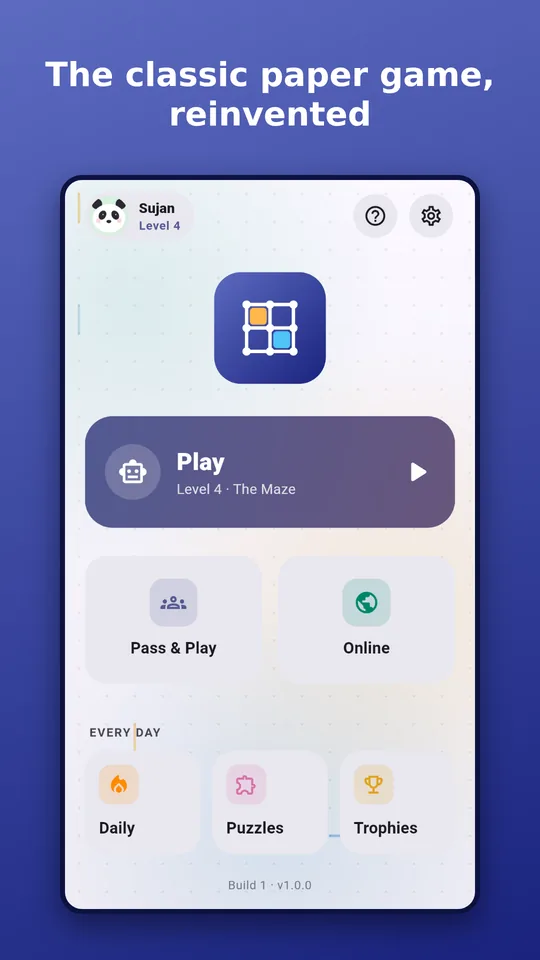
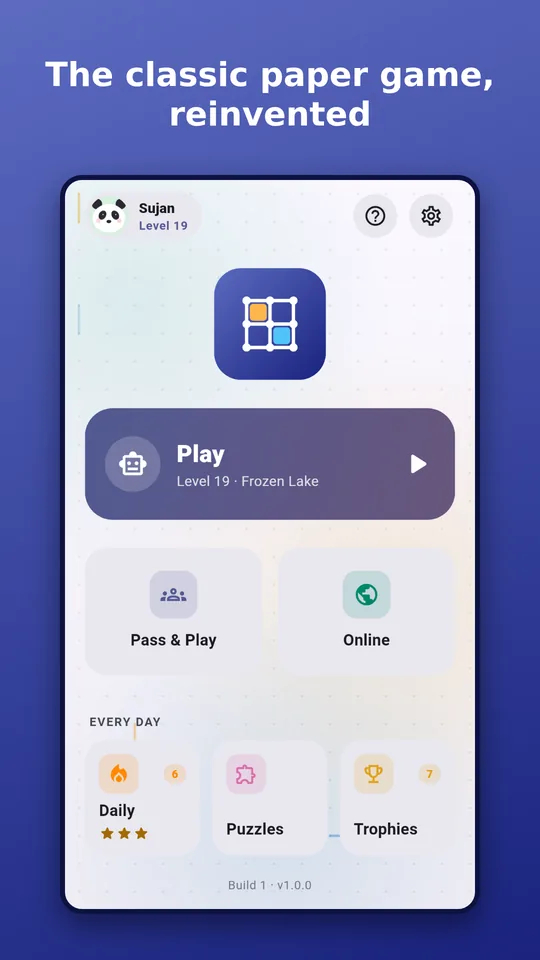
Home page: eight worlds and bosses, new screenshots (#2)
Worlds, twists, bosses and laps on the page, in the structured data and llms.txt; "How many levels are there?" question; the 8 new store screenshots.

Claude-Session: https://claude.ai/code/session_018kM3dddw6BUwEBPryTTbFM

diff --git a/index.html b/index.html
@@ -6,7 +6,7 @@
 <meta http-equiv="Content-Security-Policy" content="default-src 'none'; style-src 'unsafe-inline'; img-src 'self'">
 <meta name="referrer" content="no-referrer">
 <title>Dots &amp; Boxes: Brain Duel – free dots and boxes game for Android</title>
-<meta name="description" content="Free dots and boxes game for Android with no ads: five computer levels, a daily puzzle, Pass &amp; Play for 2–6 players and online ranked games with friends.">
+<meta name="description" content="Free dots and boxes game for Android with no ads: eight worlds with bosses, five computer levels, a daily puzzle, Pass &amp; Play for 2–6 players and online games with friends.">
 <link rel="canonical" href="https://sujan227.github.io/dots-and-boxes-legal/">
 <link rel="icon" href="img/icon-192.png">
 <meta property="og:type" content="website">
@@ -24,7 +24,7 @@
       "@id": "https://sujan227.github.io/dots-and-boxes-legal/#app",
       "name": "Dots & Boxes: Brain Duel",
       "alternateName": ["Dots and Boxes", "Dots & Boxes"],
-      "description": "A free Android version of the classic dots and boxes pen-and-paper game, with five computer levels, a daily puzzle, Pass & Play for 2 to 6 players and online ranked play. No ads, no in-app purchases, no tracking.",
+      "description": "A free Android version of the classic dots and boxes pen-and-paper game: eight worlds with their own twists, board shapes and bosses, five computer levels, a daily puzzle, Pass & Play for 2 to 6 players and online ranked play. No ads, no in-app purchases, no tracking.",
       "operatingSystem": "Android",
       "applicationCategory": "GameApplication",
       "applicationSubCategory": "Board game",
@@ -40,9 +40,10 @@
       "url": "https://sujan227.github.io/dots-and-boxes-legal/",
       "image": "https://sujan227.github.io/dots-and-boxes-legal/img/icon-192.png",
       "screenshot": [
-        "https://sujan227.github.io/dots-and-boxes-legal/img/01-home.webp",
-        "https://sujan227.github.io/dots-and-boxes-legal/img/03-game-dark.webp",
-        "https://sujan227.github.io/dots-and-boxes-legal/img/04-online.webp"
+        "https://sujan227.github.io/dots-and-boxes-legal/img/02-worlds.webp",
+        "https://sujan227.github.io/dots-and-boxes-legal/img/03-game.webp",
+        "https://sujan227.github.io/dots-and-boxes-legal/img/04-boss.webp",
+        "https://sujan227.github.io/dots-and-boxes-legal/img/06-online.webp"
       ],
       "author": {"@id": "https://sujan227.github.io/dots-and-boxes-legal/#author"},
       "privacyPolicy": "https://sujan227.github.io/dots-and-boxes-legal/privacy-policy.html"
@@ -68,7 +69,8 @@
         {"@type": "Question", "name": "Is Dots & Boxes: Brain Duel free?", "acceptedAnswer": {"@type": "Answer", "text": "Yes. It is free on Google Play, with no ads and no in-app purchases."}},
         {"@type": "Question", "name": "Can I play dots and boxes online with friends?", "acceptedAnswer": {"@type": "Answer", "text": "Yes. Create a private room and share its 6-letter code, invite friends from your friends list, join a public room, or play a random opponent. Rooms take 2 to 6 players, and ranked games have ratings and a leaderboard."}},
         {"@type": "Question", "name": "Can I play dots and boxes offline?", "acceptedAnswer": {"@type": "Answer", "text": "Yes. Games against the computer, the daily puzzle, Chain School and Pass & Play for 2 to 6 players on one phone all work without internet."}},
-        {"@type": "Question", "name": "Is there a dots and boxes game against the computer?", "acceptedAnswer": {"@type": "Answer", "text": "Yes. There are five computer levels, from Beginner to Master, which calculates the endgame exactly, plus endless levels that add obstacles, walls, gem and bomb boxes, locked lines and shaped boards."}},
+        {"@type": "Question", "name": "Is there a dots and boxes game against the computer?", "acceptedAnswer": {"@type": "Answer", "text": "Yes. There are five computer levels, from Beginner to Master, which calculates the endgame exactly, and eight worlds of levels, each with its own twist, new board shapes and a boss."}},
+        {"@type": "Question", "name": "How many levels are there?", "acceptedAnswer": {"@type": "Answer", "text": "Levels never run out. After the 8 training levels come eight worlds of 8 levels each, from Clover Meadow to Starfall Orbit, each ending with a boss. Then the worlds return as harder laps."}},
         {"@type": "Question", "name": "Is it on iPhone?", "acceptedAnswer": {"@type": "Answer", "text": "Not yet. Dots & Boxes: Brain Duel is available for Android on Google Play."}},
         {"@type": "Question", "name": "Does the app collect personal data?", "acceptedAnswer": {"@type": "Answer", "text": "No email, phone number or location is needed. Offline play sends nothing off the phone, and online play uses an anonymous account you can delete at any time from Settings."}},
         {"@type": "Question", "name": "Who invented dots and boxes?", "acceptedAnswer": {"@type": "Answer", "text": "The French mathematician Édouard Lucas first published the game in 1889, under the name La Pipopipette."}}
@@ -129,11 +131,11 @@ footer .wrap{padding-top:20px;padding-bottom:28px;display:flex;flex-wrap:wrap;ga
 <div class="hero">
 <div>
 <h1>Dots and boxes for Android. Free, with no ads.</h1>
-<p class="lead">The classic pen-and-paper game on your phone. Play five computer levels, solve a new puzzle every day, pass the phone around with up to 6 players, or play friends online in private, public and ranked rooms. No ads, no in-app purchases, no tracking.</p>
+<p class="lead">The classic pen-and-paper game on your phone. Play the computer through eight worlds with their own twists and bosses, solve a new puzzle every day, pass the phone around with up to 6 players, or play friends online. No ads, no in-app purchases, no tracking.</p>
 <a class="play" href="https://play.google.com/store/apps/details?id=com.sujanshrestha.dotsandboxes" rel="noopener"><svg viewBox="0 0 24 24" aria-hidden="true"><path fill="#34a853" d="M3.6 2.2 13.4 12l-9.8 9.8c-.4-.2-.6-.6-.6-1.1V3.3c0-.5.2-.9.6-1.1Z"/><path fill="#fbbc04" d="m17 8.4-3.6 3.6L17 15.6l4.1-2.3c.9-.5.9-1.9 0-2.4Z"/><path fill="#ea4335" d="M13.4 12 3.6 21.8c.3.2.8.2 1.2 0L17 15.6Z"/><path fill="#4285f4" d="M13.4 12 17 8.4 4.8 2.3c-.4-.2-.9-.2-1.2-.1Z"/></svg>Get it on Google Play</a>
 <p class="note">Android · Offline play needs no account</p>
 </div>
-<div class="phones"><img src="img/03-game-dark.webp" alt="A dots and boxes game against the computer, with obstacles and walls on the board" width="540" height="960"><img src="img/04-online.webp" alt="An online dots and boxes game against another player" width="540" height="960"></div>
+<div class="phones"><img src="img/02-worlds.webp" alt="The Frostpeak Pass world map with levels, an avatar and a Play button" width="540" height="960"><img src="img/03-game.webp" alt="A dots and boxes game with gems, bombs, walls and a locked line" width="540" height="960"></div>
 </div>
 </div>
 </header>
@@ -149,6 +151,7 @@ footer .wrap{padding-top:20px;padding-bottom:28px;display:flex;flex-wrap:wrap;ga
 <li><span>Online</span><strong>Random, private, public, ranked</strong></li>
 <li><span>Platform</span><strong>Android (Google Play)</strong></li>
 <li><span>Computer levels</span><strong>Beginner to Master</strong></li>
+<li><span>Worlds</span><strong>8, each with a boss</strong></li>
 <li><span>Made by</span><strong>Sujan Shrestha, Nepal</strong></li>
 </ul>
 </section>
@@ -178,9 +181,10 @@ footer .wrap{padding-top:20px;padding-bottom:28px;display:flex;flex-wrap:wrap;ga
 <section aria-labelledby="features">
 <h2 id="features">What's in the game</h2>
 <div class="feat">
-<div class="card"><span class="tag">Solo</span><h3>Play the computer</h3><p>Five levels, from a friendly Beginner to a Master that calculates the endgame exactly. Endless levels add obstacles, walls, gem and bomb boxes, locked lines and shaped boards.</p></div>
+<div class="card"><span class="tag">Adventure</span><h3>Eight worlds and their bosses</h3><p>Clover Meadow, Frostpeak Pass, Sunscorch Dunes, Coral Deep, Ember Peaks, Cloud Isles, Lantern City and Starfall Orbit. Each has its own twist, like hedge mazes, frozen lines or gold boxes worth 2, new board shapes and a boss to beat. Then the worlds return as harder laps.</p></div>
+<div class="card"><span class="tag">Solo</span><h3>Play the computer</h3><p>Five levels, from a friendly Beginner to a Master that calculates the endgame exactly. Earn up to 3 stars on every level and chase your fastest wins.</p></div>
 <div class="card"><span class="tag">Every day</span><h3>Daily puzzle and stars</h3><p>A fresh endgame each day, the same for everyone. Earn up to 3 stars, keep your streak and climb Today's stars.</p></div>
-<div class="card"><span class="tag">Together</span><h3>Pass &amp; Play</h3><p>2 to 6 players on one phone, no internet needed. Pick the board size, the shape and twists like gems and locked lines.</p></div>
+<div class="card"><span class="tag">Together</span><h3>Pass &amp; Play</h3><p>2 to 6 players on one phone, no internet needed. Pick the board size, a shape from square to heart, diamond or window, and twists like gems and locked lines.</p></div>
 <div class="card"><span class="tag">Online</span><h3>Friends, rooms and ranked</h3><p>Private rooms with a 6-letter code, public rooms, friends and invites, ranked ratings and a leaderboard. The server checks every move, so nobody can cheat.</p></div>
 <div class="card"><span class="tag">Learn</span><h3>Chain School</h3><p>Twelve puzzles that teach chains, sacrifices and the double-cross.</p></div>
 <div class="card"><span class="tag">Your style</span><h3>Paper, Chalkboard, Neon</h3><p>Unlock board styles with trophies and switch between light and dark themes.</p></div>
@@ -191,11 +195,13 @@ footer .wrap{padding-top:20px;padding-bottom:28px;display:flex;flex-wrap:wrap;ga
 <h2 id="shots">Screenshots</h2>
 <div class="shots">
 <img src="img/01-home.webp" alt="Home screen with Play, Pass &amp; Play, Online and the daily puzzle" width="540" height="960">
-<img src="img/02-levels.webp" alt="Computer levels from Beginner to Master" width="540" height="960">
-<img src="img/03-game-dark.webp" alt="A game with obstacles and walls in dark mode" width="540" height="960">
-<img src="img/04-online.webp" alt="An online game with a turn timer" width="540" height="960">
-<img src="img/05-pass-and-play.webp" alt="Pass &amp; Play setup for four players" width="540" height="960">
-<img src="img/06-public-rooms.webp" alt="Public rooms to join" width="540" height="960">
+<img src="img/02-worlds.webp" alt="The Frostpeak Pass world map" width="540" height="960">
+<img src="img/03-game.webp" alt="A game with gems, bombs, walls and a locked line in dark mode" width="540" height="960">
+<img src="img/04-boss.webp" alt="The Sun King, the boss of Sunscorch Dunes" width="540" height="960">
+<img src="img/05-daily.webp" alt="The daily puzzle solved with 3 stars and Today's stars" width="540" height="960">
+<img src="img/06-online.webp" alt="An online game against another player" width="540" height="960">
+<img src="img/07-pass-and-play.webp" alt="Pass &amp; Play setup for four players with board shapes" width="540" height="960">
+<img src="img/08-styles.webp" alt="A heart-shaped board in the Neon style" width="540" height="960">
 </div>
 </section>
 
@@ -208,7 +214,9 @@ footer .wrap{padding-top:20px;padding-bottom:28px;display:flex;flex-wrap:wrap;ga
 <h3>Can I play dots and boxes offline?</h3>
 <p>Yes. Games against the computer, the daily puzzle, Chain School and Pass &amp; Play for 2 to 6 players on one phone all work without internet.</p>
 <h3>Is there a dots and boxes game against the computer?</h3>
-<p>Yes. There are five computer levels, from Beginner to Master, which calculates the endgame exactly, plus endless levels that add obstacles, walls, gem and bomb boxes, locked lines and shaped boards.</p>
+<p>Yes. There are five computer levels, from Beginner to Master, which calculates the endgame exactly, and eight worlds of levels, each with its own twist, new board shapes and a boss.</p>
+<h3>How many levels are there?</h3>
+<p>Levels never run out. After the 8 training levels come eight worlds of 8 levels each, from Clover Meadow to Starfall Orbit, each ending with a boss. Then the worlds return as harder laps.</p>
 <h3>Is it on iPhone?</h3>
 <p>Not yet. Dots &amp; Boxes: Brain Duel is available for Android on Google Play.</p>
 <h3>Does the app collect personal data?</h3>
